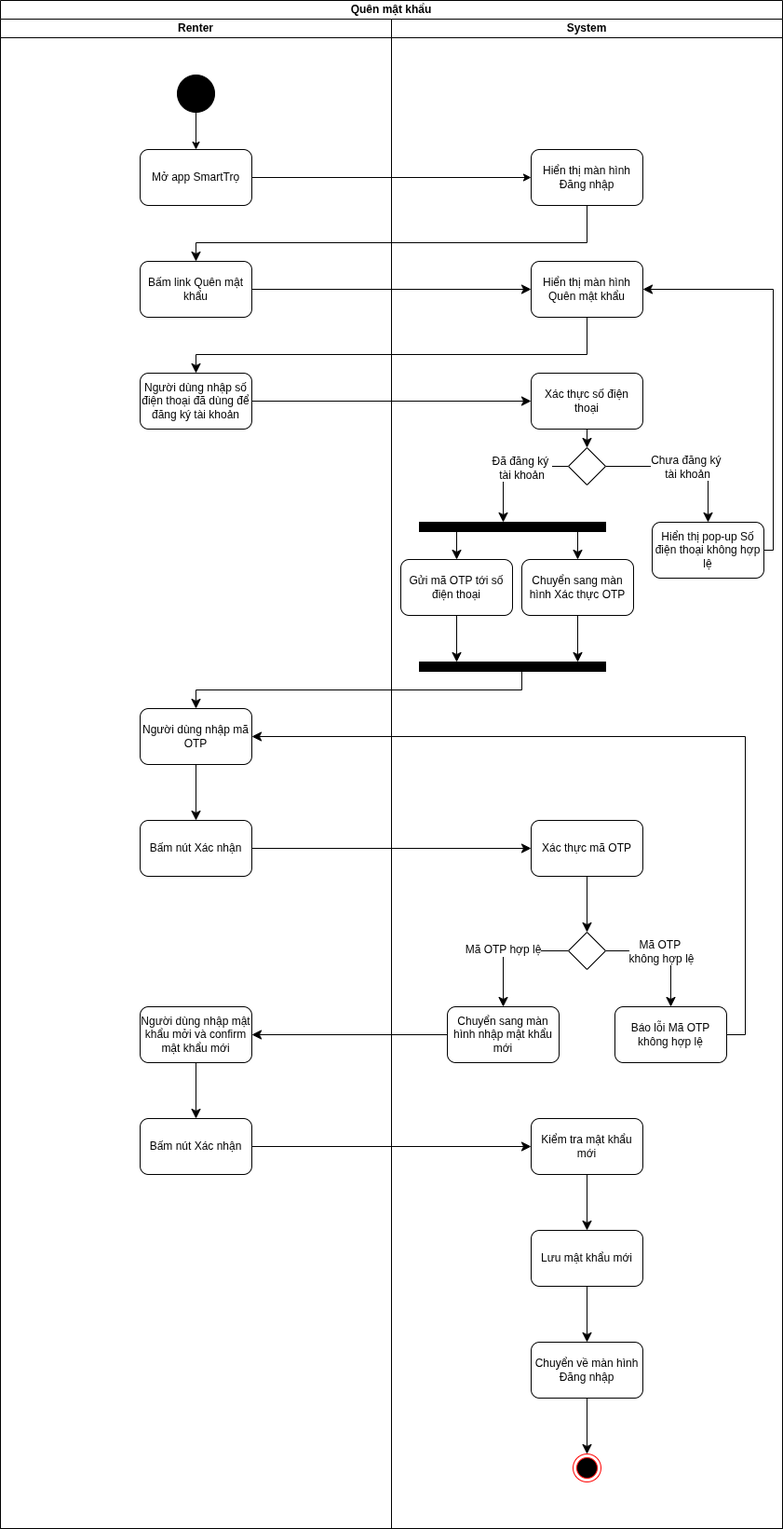
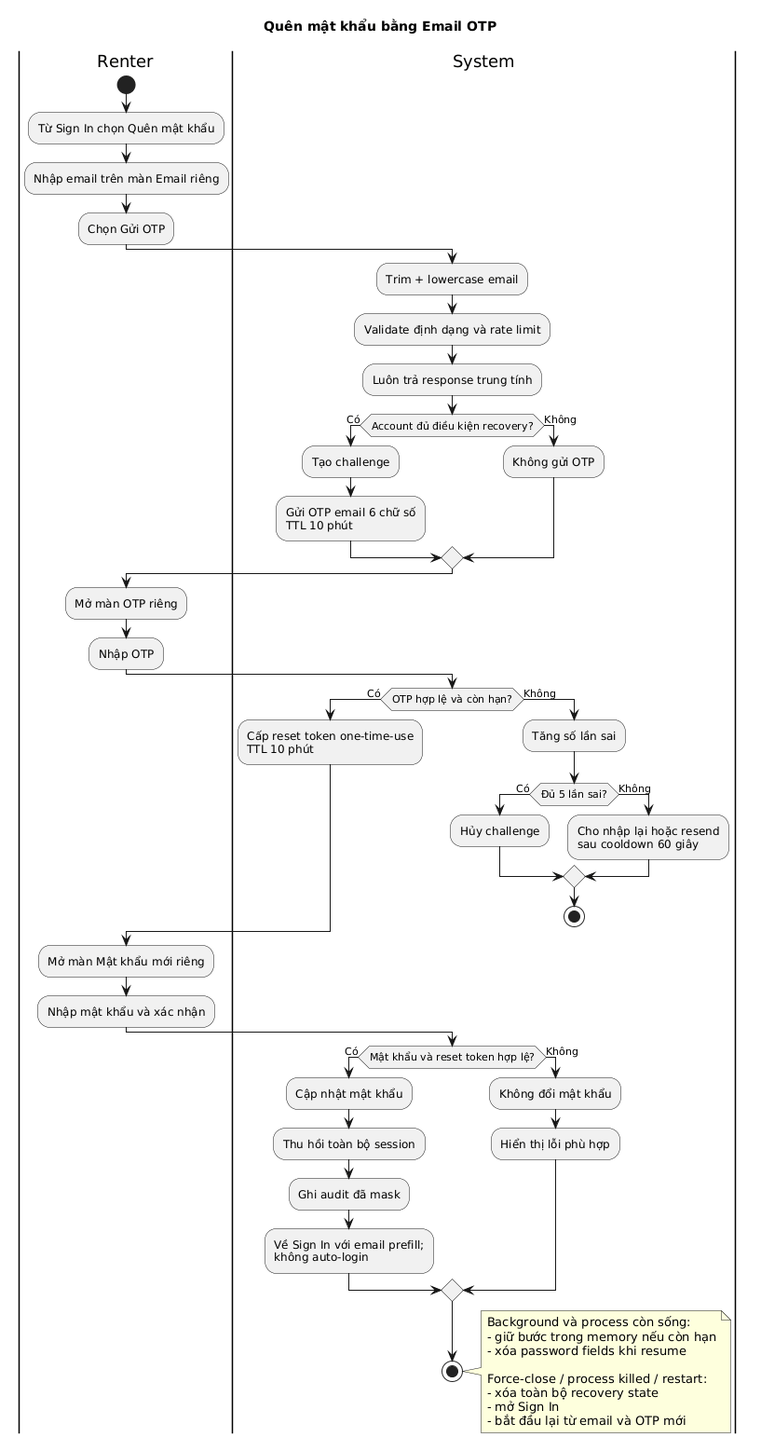
[SMT][UC-03] Approve email OTP password recovery requirements

diff --git a/docs/use-cases/smarttro/UC-03-forgot-password.md b/docs/use-cases/smarttro/UC-03-forgot-password.md
@@ -1,23 +1,27 @@
-# SmartTrọ — UC-03 Quên mật khẩu bằng Email OTP: đề xuất quyết định
+# SmartTrọ — UC-03 Quên mật khẩu bằng Email OTP
 
 ## 1. Trạng thái tài liệu
 
 | Thuộc tính | Giá trị |
 | --- | --- |
-| Trạng thái | **Pending PO approval** |
+| Trạng thái | **Approved** |
+| Ngày chốt | 2026-09-22 |
 | Phạm vi | Quên mật khẩu SmartTrọ bằng email, OTP 6 chữ số và mật khẩu mới |
 | Figma | Đã xác minh và xuất capture từ page `SmartTrọ` ngày 2026-09-16 |
-| Bàn giao Dev | **Chưa được phép** cho đến khi các quyết định `FORGOT-D01` đến `FORGOT-D15` được chốt và source requirements được cập nhật |
+| Bàn giao | **Ready cho FE-first implementation**; BE chỉ bắt đầu sau khi PO duyệt UI/deploy preview |
 
-Tài liệu này tách **thiết kế trực quan đã có** khỏi **business/security rule chưa được duyệt**. Figma không tự tạo ra quy tắc expiry, retry, lock, session hoặc anti-abuse.
+Tài liệu này là baseline chung cho PM, Dev và QA. Figma quy định presentation; các business, security, lifecycle và test rule trong tài liệu này quy định behavior.
 
-## 2. Flow đề xuất
+## 2. Luồng nghiệp vụ đã duyệt
 
-1. Người dùng nhập email đã đăng ký.
-2. Hệ thống phản hồi trung tính và gửi OTP 6 chữ số nếu tài khoản hợp lệ.
-3. Người dùng nhập OTP.
-4. Khi OTP hợp lệ, người dùng nhập mật khẩu mới và xác nhận mật khẩu.
-5. Hệ thống đổi mật khẩu, thu hồi session theo policy đã chốt và đưa người dùng về Sign In; không auto-login.
+1. Từ Sign In, người dùng chọn `Quên mật khẩu` và được chuyển sang **màn nhập email riêng**.
+2. Người dùng nhập email; hệ thống trim, lowercase và validate theo cùng normalization của UC-01/UC-02.
+3. Hệ thống luôn phản hồi trung tính: `Nếu email tồn tại, mã xác thực đã được gửi.`
+4. Nếu email ánh xạ tới account đủ điều kiện recovery, hệ thống gửi OTP email 6 chữ số và app chuyển sang **màn nhập OTP riêng**.
+5. Khi OTP hợp lệ, server cấp reset token ngắn hạn và app chuyển sang **màn đặt mật khẩu mới riêng**.
+6. Khi mật khẩu mới hợp lệ, hệ thống đổi mật khẩu, thu hồi toàn bộ session đang hoạt động và đưa người dùng về Sign In với email được điền sẵn; không auto-login.
+
+Không thêm ô OTP động vào màn nhập email. Không gộp màn nhập email và màn OTP nếu chưa có quyết định PO và Figma revision mới.
 
 ## 3. Figma traceability và capture
 
@@ -41,52 +45,89 @@ Tên của hai frame sau còn dùng prefix `Sign Up`; Dev và PM phải dùng no
 
 ![SmartTrọ Quên mật khẩu — đặt mật khẩu mới](../../assets/smarttro-auth/forgot-password-new-password.png)
 
-## 4. Các quyết định cần PO chốt
+## 4. Quyết định đã duyệt
 
-| ID | Nội dung cần chốt | Đề xuất | Lý do / tác động |
-| --- | --- | --- | --- |
-| `FORGOT-D01` | Định danh account recovery | Dùng email đã normalize giống Sign Up/Sign In | Không tạo identity rule thứ hai |
-| `FORGOT-D02` | Hình thức xác minh | OTP email 6 chữ số; không dùng magic link trong MVP | Tránh deep-link/redirect giữa email app và mobile app |
-| `FORGOT-D03` | Thời hạn OTP | 10 phút | Đủ thời gian chuyển app nhưng hạn chế cửa sổ tấn công |
-| `FORGOT-D04` | Resend | Cooldown 60 giây; OTP mới làm vô hiệu OTP cũ | Tránh nhiều mã cùng hiệu lực và spam email |
-| `FORGOT-D05` | Số lần nhập sai | Tối đa 5 lần/challenge; vượt ngưỡng hủy challenge và yêu cầu gửi mã mới | Có rule rõ để test và chống brute force |
-| `FORGOT-D06` | Rate limit | Theo email + IP + device; đề xuất tối đa 5 request/15 phút/email và 20 request/giờ/IP | Không phụ thuộc một tín hiệu duy nhất |
-| `FORGOT-D07` | Anti-enumeration | Luôn trả thông báo trung tính, ví dụ “Nếu email tồn tại, mã xác thực đã được gửi” | Không tiết lộ email nào có tài khoản |
-| `FORGOT-D08` | Điều kiện sang bước mật khẩu | Server cấp reset token ngắn hạn sau OTP hợp lệ; không dùng OTP trực tiếp để đổi mật khẩu | Tách verify challenge khỏi mutation nhạy cảm |
-| `FORGOT-D09` | Thời hạn reset token | 10 phút, one-time-use, bind với account + challenge + device/session context phù hợp | Hạn chế replay |
-| `FORGOT-D10` | Password policy | Dùng đúng policy Sign Up; không cho trùng mật khẩu hiện tại nếu backend hỗ trợ kiểm tra an toàn | Tránh rule password lệch giữa đăng ký và recovery |
-| `FORGOT-D11` | Session sau khi reset | Thu hồi toàn bộ access/refresh session đang hoạt động của tài khoản | Mật khẩu có thể bị reset vì nghi ngờ lộ tài khoản |
-| `FORGOT-D12` | Điều hướng sau thành công | Không auto-login; về Sign In với email được prefill, hiển thị thông báo đổi mật khẩu thành công | Nhất quán với Sign Up và buộc dùng credential mới |
-| `FORGOT-D13` | State khi chuyển sang email app | Chỉ persist tạm email normalized, bước hiện tại, challenge ID và expiry; không persist OTP/password/reset token | Giữ UX nhưng không lưu secret |
-| `FORGOT-D14` | Account chưa verify / social-only | Không tự tạo account, không tự link provider; hiển thị response trung tính và chuyển sang flow support/linking đã chốt sau | Tránh duplicate hoặc takeover account |
-| `FORGOT-D15` | Audit/log | Ghi request/resend/verify/reset/revoke theo immutable user ID; mask email, không log OTP/token/password | Đủ điều tra sự cố mà không lộ PII/secret |
+| ID | Quyết định | Trạng thái |
+| --- | --- | --- |
+| `FORGOT-D01` | Định danh recovery bằng email đã normalize giống Sign Up/Sign In. | Approved |
+| `FORGOT-D02` | Dùng OTP email 6 chữ số; không dùng magic link trong MVP. | Approved |
+| `FORGOT-D03` | OTP hết hạn sau 10 phút. | Approved |
+| `FORGOT-D04` | Resend có cooldown 60 giây; OTP mới làm vô hiệu OTP cũ. | Approved |
+| `FORGOT-D05` | Tối đa 5 lần nhập sai/challenge; vượt ngưỡng phải hủy challenge và yêu cầu gửi mã mới. | Approved |
+| `FORGOT-D06` | Rate limit theo email + IP + device: tối đa 5 request/15 phút/email và 20 request/giờ/IP. | Approved |
+| `FORGOT-D07` | Giữ ba màn riêng đúng Figma. Sau submit email, luôn hiển thị `Nếu email tồn tại, mã xác thực đã được gửi.`; không tiết lộ email tồn tại và không chèn ô OTP động vào màn email. | Approved |
+| `FORGOT-D08` | Sau OTP hợp lệ, server cấp reset token ngắn hạn; không dùng OTP trực tiếp để đổi mật khẩu. | Approved |
+| `FORGOT-D09` | Reset token có TTL 10 phút, one-time-use, bind với account + challenge + device/session context phù hợp. | Approved |
+| `FORGOT-D10` | Mật khẩu mới dùng đúng policy UC-01; không cho trùng mật khẩu hiện tại nếu backend có thể kiểm tra an toàn. | Approved |
+| `FORGOT-D11` | Reset thành công thu hồi toàn bộ access/refresh session đang hoạt động của account. | Approved |
+| `FORGOT-D12` | Không auto-login; về Sign In với email prefill và thông báo đổi mật khẩu thành công. | Approved |
+| `FORGOT-D13` | Nếu app chỉ background và process còn sống: giữ bước hiện tại trong memory nếu challenge/reset token còn hạn, nhưng luôn xóa hai ô mật khẩu khi resume. Nếu app bị force-close/process bị kill hoặc mở lại sau restart: xóa toàn bộ recovery state, mở entry point Sign In; người dùng phải bắt đầu lại từ bước email và nhận OTP mới. Không persist email, OTP, challenge, mật khẩu hoặc reset token qua app restart. | Approved |
+| `FORGOT-D14` | Account chưa verify/social-only không được tự tạo account hoặc tự link provider; vẫn dùng response trung tính và chỉ đi theo linking/support flow khi có requirement riêng. | Approved |
+| `FORGOT-D15` | Audit request/resend/verify/reset/revoke theo immutable user ID; mask email; không log OTP/token/password. | Approved |
 
-## 5. Quy tắc UI và validation kế thừa
+## 5. Acceptance Criteria
 
-- Email trim + lowercase theo cùng normalization của Sign Up/Sign In.
-- Mật khẩu và confirm password dùng cùng rule, component và accessibility của Sign Up.
-- OTP chỉ nhận 6 chữ số; hỗ trợ paste; hiển thị countdown resend.
-- Loading phải chống double-submit; lỗi network giữ email nhưng không giữ OTP/password.
-- Khi app background/foreground, phải khôi phục đúng bước nếu challenge còn hạn; nếu hết hạn thì đưa về bước email với thông báo rõ.
-- Không đặt email thô trong analytics key; không truyền OTP/password/reset token qua route parameters.
+### AC-01 — Gửi yêu cầu recovery
 
-## 6. Source documents phải cập nhật sau khi PO duyệt
+- **Given** người dùng đang ở màn nhập email của UC-03
+- **When** người dùng nhập email đúng định dạng và chọn `Gửi OTP`
+- **Then** app gửi đúng một request với email đã normalize, chống double-submit và hiển thị response trung tính bất kể email có tồn tại hay không.
+- **And** nếu account hợp lệ, OTP 6 chữ số được gửi qua email và app điều hướng sang màn OTP riêng.
+- **And** UI không thêm input OTP vào màn email.
 
-| Nguồn | Mục dự kiến cập nhật |
+### AC-02 — Xác minh OTP
+
+- **Given** challenge còn hạn
+- **When** người dùng nhập đúng OTP 6 chữ số
+- **Then** server cấp reset token one-time-use TTL 10 phút và app chuyển sang màn đặt mật khẩu mới.
+- **When** OTP sai, hết hạn, đã bị thay thế hoặc đã dùng
+- **Then** không được chuyển bước; số lần thử và message phải theo policy đã duyệt.
+
+### AC-03 — Resend và anti-abuse
+
+- `Gửi lại mã OTP` chỉ khả dụng sau 60 giây.
+- OTP mới vô hiệu OTP cũ ngay khi challenge mới được phát hành.
+- Quá 5 lần sai/challenge phải hủy challenge.
+- Request vượt rate limit phải bị từ chối bằng response không làm lộ account existence.
+
+### AC-04 — Đặt mật khẩu mới
+
+- Hai trường mật khẩu phải khớp và dùng policy UC-01: tối thiểu 8 ký tự, có ít nhất 1 chữ hoa, 1 số và 1 ký tự đặc biệt.
+- Reset token hết hạn, replay hoặc sai binding không được đổi mật khẩu.
+- Reset thành công phải revoke toàn bộ session, điều hướng về Sign In, prefill email và không auto-login.
+
+### AC-05 — Background, resume và app restart
+
+- Khi app chỉ chuyển background/foreground và process còn sống, app giữ đúng bước nếu credential recovery còn hạn.
+- Khi resume ở bước mật khẩu, các ô mật khẩu luôn rỗng dù reset token vẫn còn hạn.
+- Khi challenge/reset token hết hạn trong lúc background, app đưa người dùng về bước email với message rõ ràng.
+- Khi app bị force-close/process bị kill hoặc app được mở lại sau restart, app không khôi phục flow recovery; entry point là Sign In và toàn bộ recovery state cũ phải bị xóa.
+
+### AC-06 — Dữ liệu nhạy cảm và lỗi mạng
+
+- Không truyền OTP, password hoặc reset token qua route parameters, analytics hoặc log.
+- Không persist email, OTP, challenge, password hoặc reset token của flow recovery qua app restart.
+- Lỗi mạng ở màn email có thể giữ email trong memory để sửa/thử lại; lỗi ở màn OTP/password không được lưu OTP/password.
+
+## 6. Trạng thái đồng bộ tài liệu
+
+| Tài liệu | Cập nhật |
 | --- | --- |
-| `Requirement_List/Requirements List - SmartTrọ.xlsx` | `SM004` và change request liên quan |
-| `User_Stories/User Story - SmartTrọ.xlsx` | User Story `3.0`, AC Email → OTP → password mới |
-| `SRS/SRS (SmartTrọ).docx` | UC Quên mật khẩu, pre/post-condition, exceptions và security rules |
-| `FRS/FRS - SmartTrọ.docx` | Bổ sung đặc tả flow/API/state nếu FRS được mở rộng auth |
-| `Activity_Diagrams/` | Thay flow phone/SMS bằng email OTP; thêm expiry/resend/attempt/rate-limit branches |
-| `docs/use-cases/smarttro/UC-02-sign-in.md` | Cập nhật điều hướng từ Sign In sang UC-03 và contract sau khi đặt lại mật khẩu |
-| `markdown/` | Đồng bộ lại mirror và SHA-256 sau khi file nguồn thay đổi |
+| `markdown/Requirement_List/Requirements List - SmartTrọ.md` | `SM004` bổ sung baseline nghiệp vụ, security, state lifecycle và thứ tự FE-first |
+| `markdown/User_Stories/User Story - SmartTrọ.md` | `US 3.0` đổi từ SĐT sang email OTP và thêm AC testable |
+| `markdown/SRS/SRS (SmartTrọ).md` | `UC-3` bổ sung đặc tả, alternate flow và hậu điều kiện |
+| `Activity_Diagrams/AD_Forgot Password.puml` | Bổ sung flow email OTP, generic response, expiry/resend/attempt và reset session |
+| `docs/use-cases/smarttro/UC-02-sign-in.md` | Cập nhật liên kết UC-03 thành Approved |
+| `markdown/FRS/FRS - SmartTrọ.md` | Không sửa trong revision này vì source FRS hiện chỉ đặc tả chi tiết UC-12/14/15; UC-03 dùng file này + SRS làm baseline |
 
-## 7. Gate bàn giao PM/Dev
+Các file DOCX/XLSX gốc chưa được thay đổi trong revision Markdown này. Khi source office được cập nhật, phải đồng bộ lại Markdown và SHA-256 theo `markdown/README.md`.
 
-PM chỉ giao task implementation sau khi:
+## 7. Gate bàn giao và thứ tự triển khai
 
-1. PO xác nhận hoặc điều chỉnh toàn bộ `FORGOT-D01` đến `FORGOT-D15`.
-2. Requirement List, User Story, SRS và Activity Diagram đã cập nhật cùng một rule set.
-3. API contract thể hiện challenge ID, expiry, resend, attempt, reset token, generic response và session revocation.
-4. QA có test matrix cho happy path, expired/replayed OTP, brute force, enumeration, resend race, app resume và session revocation.
+1. FE dựng đúng ba màn Figma, state/validation và deploy preview/mobile build để PO review.
+2. Chỉ sau khi PO duyệt UI, BE mới triển khai challenge, OTP, reset token, password mutation, session revocation và audit.
+3. Sau khi BE deploy ổn định, FE map API và xử lý error/loading/lifecycle trên runtime thật.
+4. QA test trên build + backend đã deploy, dùng dữ liệu và cấu hình thật của môi trường review; phải test cả UC-01/UC-02 regression.
+5. PO thực hiện UAT sau khi QA pass.
+
+PM phải comment và tag PO nếu phát hiện conflict, deferred decision hoặc ambiguity mới. Dev không được tự thay đổi ba màn, identity rule, security policy hoặc app-state behavior đã duyệt.

diff --git a/markdown/SRS/SRS (SmartTrọ).md b/markdown/SRS/SRS (SmartTrọ).md
@@ -260,7 +260,53 @@ Hình 12: Quy trình thanh toán dự kiến
 
 #### 3.4.1. Đặc tả use case
 
+| Thuộc tính | Nội dung |
+| --- | --- |
+| Tên use case | Quên mật khẩu bằng Email OTP |
+| Tác nhân chính | Người thuê trọ |
+| Kích hoạt | Người dùng chọn `Quên mật khẩu` tại màn Sign In |
+| Tiền điều kiện | App có kết nối mạng; người dùng chưa đăng nhập; account recovery dùng email đã normalize |
+| Hậu điều kiện thành công | Mật khẩu mới được lưu; toàn bộ access/refresh session cũ bị thu hồi; người dùng trở về Sign In với email prefill và không auto-login |
+| Hậu điều kiện thất bại | Mật khẩu và session không thay đổi; không làm lộ email có account hay không |
+| Baseline chi tiết | [`UC-03-forgot-password.md`](../../docs/use-cases/smarttro/UC-03-forgot-password.md) — Approved ngày 2026-09-22 |
+
+**Luồng chính**
+
+1. Hệ thống mở màn nhập Email riêng theo Figma node `2005:3286`.
+2. Người dùng nhập email và chọn `Gửi OTP`.
+3. Hệ thống trim + lowercase email, kiểm tra định dạng và áp dụng rate limit.
+4. Hệ thống luôn trả message `Nếu email tồn tại, mã xác thực đã được gửi.`; nếu account đủ điều kiện, hệ thống phát hành challenge và gửi OTP email 6 chữ số.
+5. App chuyển sang màn OTP riêng theo Figma node `2005:3261`; không thêm input OTP vào màn Email.
+6. Người dùng nhập OTP. Khi OTP hợp lệ, server cấp reset token one-time-use TTL 10 phút.
+7. App chuyển sang màn mật khẩu mới theo Figma node `2005:3310`.
+8. Người dùng nhập và xác nhận mật khẩu mới theo password policy của UC-01.
+9. Hệ thống cập nhật mật khẩu, thu hồi toàn bộ session cũ và ghi audit đã mask dữ liệu nhạy cảm.
+10. App chuyển về Sign In với email prefill và thông báo thành công; không auto-login.
+
+**Luồng thay thế và ngoại lệ**
+
+- Email sai định dạng: không gửi request; hiển thị validation tại field.
+- Email không tồn tại, chưa verify hoặc social-only: vẫn dùng response trung tính; không tự tạo hoặc tự link account.
+- Resend trước 60 giây: không phát hành OTP mới. Resend hợp lệ làm OTP cũ vô hiệu.
+- OTP sai: tăng attempt counter; tối đa 5 lần/challenge. OTP sai, hết hạn, replay hoặc đã bị thay thế không được chuyển bước.
+- Rate limit: tối đa 5 request/15 phút/email và 20 request/giờ/IP, kết hợp tín hiệu device; response không làm lộ account existence.
+- Reset token hết hạn/replay/sai binding: không đổi mật khẩu và yêu cầu bắt đầu lại theo flow phù hợp.
+- Lỗi mạng: chống double-submit; không persist OTP/password/reset token.
+- App chỉ background và process còn sống: giữ bước trong memory nếu challenge/reset token còn hạn; luôn xóa password fields khi resume.
+- App bị force-close/process bị kill hoặc mở lại sau restart: xóa toàn bộ recovery state, mở Sign In; người dùng phải bắt đầu lại từ email và nhận OTP mới.
+
+**Quy tắc bảo mật**
+
+- OTP gồm 6 chữ số, TTL 10 phút.
+- Reset token TTL 10 phút, one-time-use và bind với account + challenge + context phù hợp.
+- Không log hoặc truyền OTP/password/reset token qua analytics hay route parameters.
+- Không persist email, OTP, challenge, password hoặc reset token của recovery qua app restart.
+- Audit các sự kiện request/resend/verify/reset/revoke bằng immutable user ID và email đã mask.
+
 #### 3.4.2. Activity Diagram
+
+- Source: [`AD_Forgot Password.puml`](../../Activity_Diagrams/AD_Forgot%20Password.puml)
+- Render: [`AD_Forgot Password.png`](../../Activity_Diagrams/AD_Forgot%20Password.png)
 
 ### 3.5. UC-4: Xem thông tin cá nhân
 

diff --git a/markdown/User_Stories/User Story - SmartTrọ.md b/markdown/User_Stories/User Story - SmartTrọ.md
@@ -41,18 +41,22 @@ Là một người dùng đã có tài khoản và đã xác minh email, tôi mu
 
 ### US 3.0 — Quên mật khẩu
 
-Là một người dùng, tôi muốn được cấp lại mật khẩu mới nếu quên mật khẩu để tiếp tục đăng nhập được và sử dụng các dịch vụ của app
+Là một người dùng đã có tài khoản, tôi muốn đặt lại mật khẩu bằng email đã đăng ký và OTP 6 chữ số để có thể đăng nhập lại một cách an toàn.
 
 **Ưu tiên:** High
 
 **Acceptance Criteria**
 
-- 1. Số điện thoại người dùng nhập phải là SĐT đã đăng ký tài khoản
-- 2. Sau khi người dùng nhập số điện thoại, hệ thống phải gửi mã OTP qua SĐT trong vòng 3s
-- 3.Mật khẩu mới phải chứa tối thiểu 8 ký tự, gồm ít nhất 1 chữ hoa, 1 số và 1 ký tự đặc biệt
-- 4. Người dùng phải được chuyển đến trang nhập mật khẩu trong vòng 3s sau khi nhập đúng mã OTP
-- 5. Người dùng phải được chuyển đến trang đăng nhập trong tối đa 3s sau khi nhập mật khẩu hợp lệ
-- 6. Người dùng chưa vượt quá số lần xin cấp lại mật khẩu tối đa
+- 1. Flow gồm ba màn riêng theo Figma: nhập Email → nhập OTP → đặt mật khẩu mới; không hiển thị ô OTP động trên màn nhập email.
+- 2. Email được trim, lowercase và validate theo cùng normalization của Đăng ký/Đăng nhập.
+- 3. Sau khi người dùng gửi email hợp lệ, hệ thống luôn phản hồi `Nếu email tồn tại, mã xác thực đã được gửi.` và không tiết lộ email có tài khoản hay không.
+- 4. Với account đủ điều kiện recovery, hệ thống gửi OTP email 6 chữ số. OTP hết hạn sau 10 phút; resend có cooldown 60 giây và OTP mới làm vô hiệu OTP cũ.
+- 5. Người dùng được thử sai tối đa 5 lần cho mỗi challenge. Hệ thống giới hạn tối đa 5 request/15 phút/email và 20 request/giờ/IP, đồng thời áp dụng tín hiệu device.
+- 6. Chỉ OTP hợp lệ mới được cấp reset token one-time-use TTL 10 phút và chuyển sang màn đặt mật khẩu mới.
+- 7. Mật khẩu mới phải chứa tối thiểu 8 ký tự, gồm ít nhất 1 chữ hoa, 1 số và 1 ký tự đặc biệt; hai trường mật khẩu phải khớp.
+- 8. Đổi mật khẩu thành công phải thu hồi toàn bộ session, chuyển về Đăng nhập với email được điền sẵn và không auto-login.
+- 9. Nếu app chỉ background và process còn sống, giữ bước hiện tại khi challenge/token còn hạn nhưng phải xóa các ô mật khẩu khi resume. Nếu app bị force-close/process bị kill hoặc mở lại sau restart, xóa toàn bộ recovery state, mở Sign In và yêu cầu bắt đầu lại từ email với OTP mới.
+- 10. Không persist email, OTP, challenge, password hoặc reset token của recovery qua app restart; không log hoặc truyền secret qua route/analytics.
 
 ## Quản lý hồ sơ
 

diff --git a/markdown/README.md b/markdown/README.md
@@ -10,14 +10,15 @@ Thư mục này chứa bản Markdown của các tài liệu DOCX/XLSX để age
 - Ảnh nhúng từ DOCX được trích xuất vào thư mục `assets/` cùng nhóm tài liệu.
 - Công thức Excel được giữ dưới dạng văn bản; bản Markdown không thay thế workbook để tính toán.
 - Các Change Request lịch sử có thể chứa flow cũ. Với auth SmartTrọ MVP, dùng tài liệu của đúng UC trong `docs/use-cases/smarttro/` làm baseline.
+- Các bổ sung trực tiếp trong Markdown sau ngày chuyển đổi phải ghi rõ ngày quyết định PO và liên kết tới UC baseline; không được thay đổi SHA-256 nguồn nếu DOCX/XLSX gốc chưa đổi.
 
 ## Trạng thái chuyển đổi
 
 | Nguồn | Bản Markdown | Đồng bộ | SHA-256 nguồn | Ghi chú |
 | --- | --- | --- | --- | --- |
[7 lines of base64/hex data omitted]
 
 ## Thứ tự chuyển đổi tiếp theo

diff --git a/markdown/Requirement_List/Requirements List - SmartTrọ.md b/markdown/Requirement_List/Requirements List - SmartTrọ.md
@@ -99,6 +99,20 @@
 | Deploy date | 09/06/2025 |
 | Code Version | 1 |
 
+**Baseline nghiệp vụ đã duyệt ngày 2026-09-22**
+
+- Identity recovery dùng email đã normalize; không dùng số điện thoại hoặc magic link trong MVP.
+- UI gồm ba màn riêng: Email → OTP → Mật khẩu mới. Không chèn input OTP động vào màn Email.
+- Request recovery luôn trả message trung tính `Nếu email tồn tại, mã xác thực đã được gửi.`; chỉ account đủ điều kiện mới nhận OTP.
+- OTP gồm 6 chữ số, TTL 10 phút, resend cooldown 60 giây; OTP mới vô hiệu OTP cũ; tối đa 5 lần sai/challenge.
+- Rate limit: tối đa 5 request/15 phút/email và 20 request/giờ/IP, kết hợp tín hiệu device.
+- OTP hợp lệ chỉ cấp reset token one-time-use TTL 10 phút; reset token được bind với account/challenge/context phù hợp.
+- Reset thành công phải revoke toàn bộ session, trở về Sign In với email prefill và không auto-login.
+- Background/foreground khi process còn sống được giữ bước trong memory nếu còn hạn, nhưng phải xóa password fields khi resume.
+- Force-close/process bị kill/app restart phải xóa toàn bộ recovery state, mở Sign In và bắt đầu lại bằng email + OTP mới.
+- Thứ tự triển khai: FE + preview/mobile build → PO duyệt UI → BE → map API → QA system/regression → UAT.
+- Baseline chi tiết: [`docs/use-cases/smarttro/UC-03-forgot-password.md`](../../docs/use-cases/smarttro/UC-03-forgot-password.md).
+
 ### SM005 — Đổi mật khẩu
 
 | Trường | Giá trị |

diff --git a/docs/use-cases/smarttro/UC-02-sign-in.md b/docs/use-cases/smarttro/UC-02-sign-in.md
@@ -57,7 +57,7 @@ Capture là baseline trình bày. Requirement về validation, lỗi, loading, s
 - `SRS/SRS (SmartTrọ).docx`, `UC-2`.
 - Activity Diagram Sign In by Email và source `.puml` trong `Activity_Diagrams/`.
 - `docs/use-cases/smarttro/UC-01-sign-up.md` cho hành vi chuyển về Sign In sau đăng ký.
-- `docs/use-cases/smarttro/UC-03-forgot-password.md` cho flow khi chọn `Quên mật khẩu`; UC-03 hiện chưa được bàn giao Dev khi chưa được PO duyệt.
+- `docs/use-cases/smarttro/UC-03-forgot-password.md` cho flow khi chọn `Quên mật khẩu`; UC-03 đã được PO duyệt ngày 2026-09-22 và triển khai theo thứ tự FE-first.
 
 ### 3.3. Quy tắc khi có mâu thuẫn
 
@@ -126,7 +126,7 @@ Nếu có conflict, deferred decision hoặc ambiguity mà PM không có đủ t
 ### 5.3. Điều hướng liên UC
 
 - `Đăng ký` → `UC-01 Sign Up`.
-- `Quên mật khẩu` → `UC-03 Forgot Password` khi UC-03 đã được phê duyệt và triển khai.
+- `Quên mật khẩu` → `UC-03 Forgot Password`; UC-03 dùng ba màn riêng Email → OTP → Mật khẩu mới và không thêm OTP inline vào màn Email.
 - Account chưa xác minh → resume `UC-01` theo contract được chốt tại `SIGNIN-Q04`.
 
 ## 6. Trạng thái và dữ liệu UI

diff --git a/docs/use-cases/smarttro/README.md b/docs/use-cases/smarttro/README.md
@@ -16,8 +16,8 @@ Thư mục này chứa tài liệu theo từng Use Case để PM giao việc, De
 | --- | --- | --- |
 | UC-01 — Đăng ký bằng email | [`UC-01-sign-up.md`](UC-01-sign-up.md) | Approved; Ready cho FE mock/UI review |
 | UC-02 — Đăng nhập bằng email và mật khẩu | [`UC-02-sign-in.md`](UC-02-sign-in.md) | Approved; Ready cho FE mock/UI review |
-| UC-03 — Quên mật khẩu | [`UC-03-forgot-password.md`](UC-03-forgot-password.md) | Pending PO approval; chưa giao Dev |
+| UC-03 — Quên mật khẩu bằng Email OTP | [`UC-03-forgot-password.md`](UC-03-forgot-password.md) | Approved; Ready cho FE-first implementation |
 
 Các UC tiếp theo phải được bổ sung vào thư mục này khi được chuẩn bị để triển khai.
 
-Với UC-01 và UC-02, thứ tự đã được PO duyệt ngày 2026-09-16 là: triển khai FE mock → deploy preview → PO review/approve → mới triển khai backend production.
+Với UC-01, UC-02 và UC-03, thứ tự triển khai là: FE mock → deploy preview/mobile build → PO review/approve → BE → map API → QA → UAT.
